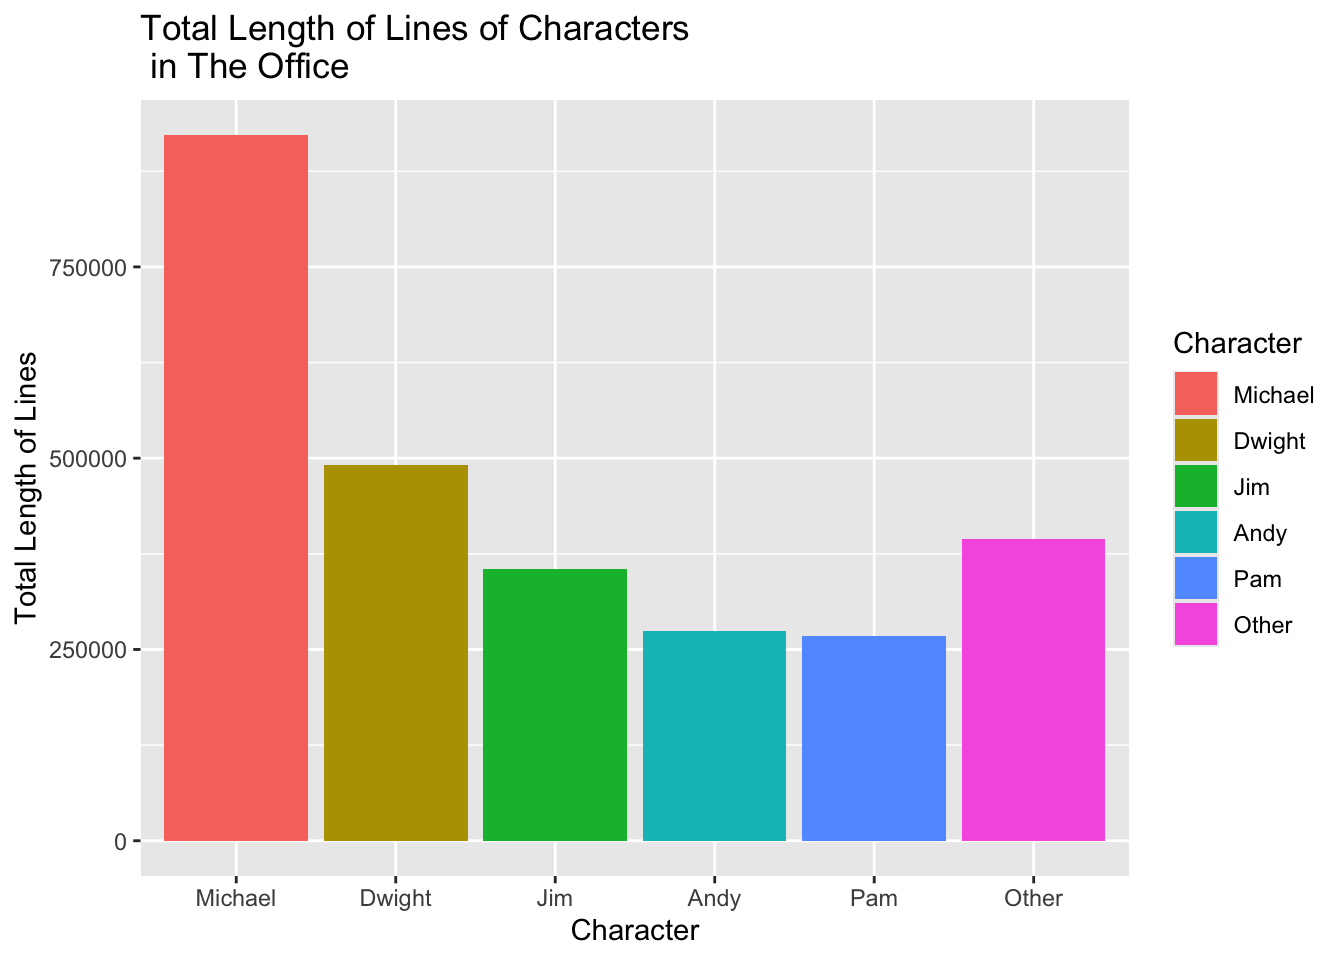
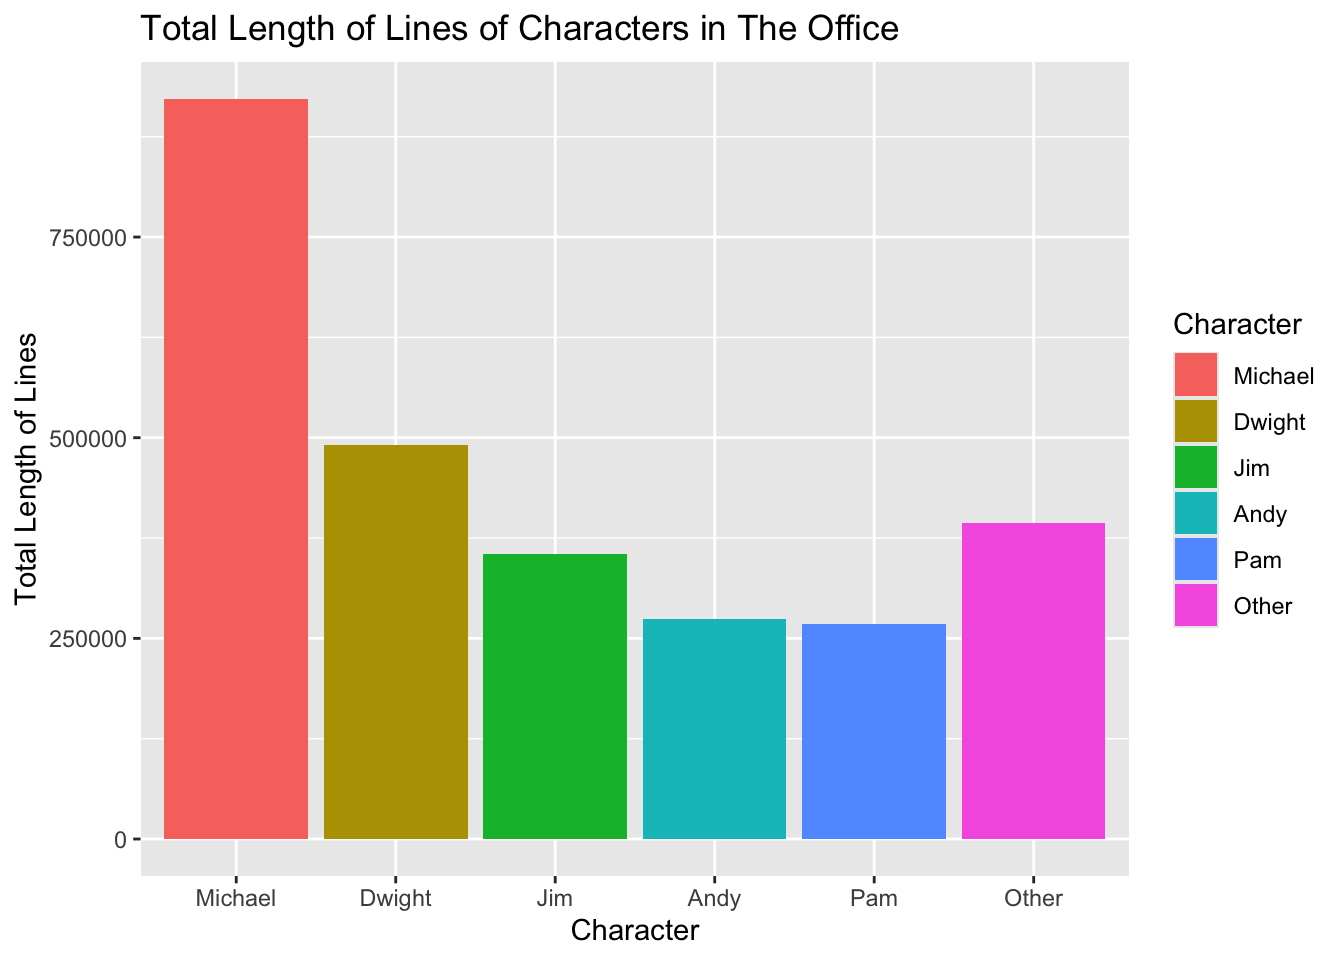
proj2

diff --git a/docs/office_lines.html b/docs/office_lines.html
@@ -7,7 +7,7 @@
 <meta name="viewport" content="width=device-width, initial-scale=1.0, user-scalable=yes">
 
 
-<title>Lines in the Office – Sabina Peterson Rajalingam’s Website</title>
+<title>The Office Quotes – Sabina Peterson Rajalingam’s Website</title>
 <style>
 /* Default styles provided by pandoc.
 ** See https://pandoc.org/MANUAL.html#variables-for-html for config info.
@@ -145,7 +145,7 @@ pre > code.sourceCode > span > a:first-child::before { text-decoration: underlin
   </li>  
         <li>
     <a class="dropdown-item" href="./office_lines.html">
- <span class="dropdown-text">Office Lines</span></a>
+ <span class="dropdown-text">The Office Quotes</span></a>
   </li>  
     </ul>
   </li>
@@ -168,7 +168,7 @@ pre > code.sourceCode > span > a:first-child::before { text-decoration: underlin
 
 <header id="title-block-header" class="quarto-title-block default">
 <div class="quarto-title">
-<h1 class="title">Lines in the Office</h1>
+<h1 class="title">The Office Quotes</h1>
 </div>
 
 
@@ -185,6 +185,8 @@ pre > code.sourceCode > span > a:first-child::before { text-decoration: underlin
 </header>
 
 
+<p>This data set has information on all of the lines spoken in the American sitcom show, The Office. The data set tracks all lines from all 9 seasons and includes the season, episode, line, character who spoke the line, and what number line it was in the entire show. In total there are 61,306 lines!</p>
+<p>This dataset has been created by <a href="https://www.kaggle.com/datasets/fabriziocominetti/the-office-lines">Kaggle</a> and was originally scraped from a website called <a href="www.officequotes.net">Office Quotes</a> that is currently down.</p>
 <div class="cell">
 <div class="code-copy-outer-scaffold"><div class="sourceCode cell-code" id="cb1"><pre class="sourceCode r code-with-copy"><code class="sourceCode r"><span id="cb1-1"><a href="#cb1-1" aria-hidden="true" tabindex="-1"></a><span class="fu">library</span>(tidyverse)</span>
 <span id="cb1-2"><a href="#cb1-2" aria-hidden="true" tabindex="-1"></a><span class="fu">library</span>(ggplot2)</span>
@@ -202,6 +204,7 @@ pre > code.sourceCode > span > a:first-child::before { text-decoration: underlin
 <span id="cb2-5"><a href="#cb2-5" aria-hidden="true" tabindex="-1"></a>  <span class="fu">arrange</span>(<span class="fu">desc</span>(total_length)) <span class="sc">|&gt;</span></span>
 <span id="cb2-6"><a href="#cb2-6" aria-hidden="true" tabindex="-1"></a>  <span class="fu">head</span>(<span class="dv">10</span>)</span></code></pre></div><button title="Copy to Clipboard" class="code-copy-button"><i class="bi"></i></button></div>
 </div>
+<hr>
 <ol start="2" type="1">
 <li>One of the most common phrases that is repeated in The Office is “That’s what she said.” The main character Michael often repeats this innapropriate joke and I wanted to count how many times this joke was repeated by each character. First I found it helpful to change each string to all lower case and then use a regular expression brackets to choose either a straight or curly apostrophe.</li>
 </ol>
@@ -228,6 +231,10 @@ pre > code.sourceCode > span > a:first-child::before { text-decoration: underlin
 # ℹ 770 more rows</code></pre>
 </div>
 </div>
+<hr>
+<ol start="3" type="1">
+<li>In The Office, the paper company the characters all work for is called “Dunder Mifflin” which sounds an awful lot like “Blunder Muffin” to me. What is we changed the company line to something more funny?</li>
+</ol>
 <div class="cell">
 <div class="code-copy-outer-scaffold"><div class="sourceCode cell-code" id="cb5"><pre class="sourceCode r code-with-copy"><code class="sourceCode r"><span id="cb5-1"><a href="#cb5-1" aria-hidden="true" tabindex="-1"></a>office_lines <span class="sc">|&gt;</span></span>
 <span id="cb5-2"><a href="#cb5-2" aria-hidden="true" tabindex="-1"></a>  <span class="fu">mutate</span>(<span class="at">new_company =</span> <span class="fu">str_replace_all</span>(Line, <span class="st">"Dunder Mifflin"</span>, <span class="st">"Blunder Muffin"</span>)) <span class="sc">|&gt;</span></span>
@@ -240,6 +247,10 @@ pre > code.sourceCode > span > a:first-child::before { text-decoration: underlin
 2                                                                                                                                                                                                  I’ve, uh, I’ve been at Blunder Muffin for 12 years, the last four as Regional Manager. If you want to come through here… See we have the entire floor. So this is my kingdom, as far as the eye can see. This is our receptionist, Pam. Pam! Pam-Pam! Pam Beesly. Pam has been with us for…  forever. Right, Pam?</code></pre>
 </div>
 </div>
+<hr>
+<ol start="4" type="1">
+<li>One of my favorite characters is Dwight Schrute. He is known as one of the most comedic characters in the show. Using lookarounds, I wrote code to see what the characters talk about when he is mentioned. Some examples are shown below.</li>
+</ol>
 <div class="cell">
 <div class="code-copy-outer-scaffold"><div class="sourceCode cell-code" id="cb7"><pre class="sourceCode r code-with-copy"><code class="sourceCode r"><span id="cb7-1"><a href="#cb7-1" aria-hidden="true" tabindex="-1"></a>office_lines <span class="sc">|&gt;</span></span>
 <span id="cb7-2"><a href="#cb7-2" aria-hidden="true" tabindex="-1"></a>  <span class="fu">mutate</span>(<span class="at">jim_string =</span> (<span class="fu">str_extract</span>(Line, <span class="st">"(?&lt;=Dwight )[^.?]+"</span>))) <span class="sc">|&gt;</span></span>
@@ -254,6 +265,10 @@ pre > code.sourceCode > span > a:first-child::before { text-decoration: underlin
 143                                                 tell him about the kung fu and the car and everything</code></pre>
 </div>
 </div>
+<hr>
+<ol start="5" type="1">
+<li>The great love story of the sitcom is the story of Jim and Pam. In this code I used str_detect to count how many times they are mentioned together in a line.</li>
+</ol>
 <div class="cell">
 <div class="code-copy-outer-scaffold"><div class="sourceCode cell-code" id="cb9"><pre class="sourceCode r code-with-copy"><code class="sourceCode r"><span id="cb9-1"><a href="#cb9-1" aria-hidden="true" tabindex="-1"></a>office_lines <span class="sc">|&gt;</span></span>
 <span id="cb9-2"><a href="#cb9-2" aria-hidden="true" tabindex="-1"></a>  <span class="fu">summarize</span>(<span class="at">jam_count =</span> <span class="fu">sum</span>(<span class="fu">str_detect</span>(Line, <span class="st">"Jim.+Pam"</span>), <span class="at">na.rm =</span> <span class="cn">TRUE</span>)) </span></code></pre></div><button title="Copy to Clipboard" class="code-copy-button"><i class="bi"></i></button></div>
@@ -262,6 +277,7 @@ pre > code.sourceCode > span > a:first-child::before { text-decoration: underlin
 1       147</code></pre>
 </div>
 </div>
+<hr>
 <div class="cell">
 <div class="code-copy-outer-scaffold"><div class="sourceCode cell-code" id="cb11"><pre class="sourceCode r code-with-copy"><code class="sourceCode r"><span id="cb11-1"><a href="#cb11-1" aria-hidden="true" tabindex="-1"></a>office_lines_changed <span class="ot">&lt;-</span> office_lines_changed <span class="sc">|&gt;</span></span>
 <span id="cb11-2"><a href="#cb11-2" aria-hidden="true" tabindex="-1"></a>  <span class="fu">mutate</span>(<span class="at">Character =</span> <span class="fu">fct_lump</span>(Character, <span class="at">n =</span> <span class="dv">5</span>, <span class="at">w =</span> total_length))</span>
@@ -273,7 +289,7 @@ pre > code.sourceCode > span > a:first-child::before { text-decoration: underlin
 <span id="cb11-8"><a href="#cb11-8" aria-hidden="true" tabindex="-1"></a>  <span class="fu">geom_col</span>() <span class="sc">+</span></span>
 <span id="cb11-9"><a href="#cb11-9" aria-hidden="true" tabindex="-1"></a>  <span class="fu">labs</span>(</span>
 <span id="cb11-10"><a href="#cb11-10" aria-hidden="true" tabindex="-1"></a>    <span class="at">y =</span> <span class="st">"Total Length of Lines"</span>,</span>
-<span id="cb11-11"><a href="#cb11-11" aria-hidden="true" tabindex="-1"></a>    <span class="at">title =</span> <span class="st">"Total Length of Lines of Characters </span><span class="sc">\n</span><span class="st"> in The Office"</span></span>
+<span id="cb11-11"><a href="#cb11-11" aria-hidden="true" tabindex="-1"></a>    <span class="at">title =</span> <span class="st">"Total Length of Lines of Characters in The Office"</span></span>
 <span id="cb11-12"><a href="#cb11-12" aria-hidden="true" tabindex="-1"></a>  )</span></code></pre></div><button title="Copy to Clipboard" class="code-copy-button"><i class="bi"></i></button></div>
 <div class="cell-output-display">
 <div>
@@ -283,6 +299,10 @@ pre > code.sourceCode > span > a:first-child::before { text-decoration: underlin
 </div>
 </div>
 </div>
+<ol start="6" type="1">
+<li>PLOT 1: Length of Lines of Characters in The Office If you wanted to see how big of a role each character has in The Office throughout all 9 seasons, one way to track this could be to calculate the length of their lines. This plot above calculates the total length of all of each characters lines in terms of the physical length of each word in their lines. From this plot we can see that Michael, the main character, speaks the most. I was surprised to see that Andy spoke more than Pam because I always thought Pam was one of the more prevelant characters in the show. The pink other column represents all of the other characters in the show who had smaller roles. Some of those characters include Kevin, Angela, Phyllis, and more.</li>
+</ol>
+<hr>
 <div class="cell">
 <div class="code-copy-outer-scaffold"><div class="sourceCode cell-code" id="cb12"><pre class="sourceCode r code-with-copy"><code class="sourceCode r"><span id="cb12-1"><a href="#cb12-1" aria-hidden="true" tabindex="-1"></a>office_lines_dwight <span class="ot">&lt;-</span> office_lines <span class="sc">|&gt;</span></span>
 <span id="cb12-2"><a href="#cb12-2" aria-hidden="true" tabindex="-1"></a>  <span class="fu">group_by</span>(Season) <span class="sc">|&gt;</span></span>
@@ -292,7 +312,7 @@ pre > code.sourceCode > span > a:first-child::before { text-decoration: underlin
 <span id="cb12-6"><a href="#cb12-6" aria-hidden="true" tabindex="-1"></a>  <span class="fu">geom_col</span>()<span class="sc">+</span></span>
 <span id="cb12-7"><a href="#cb12-7" aria-hidden="true" tabindex="-1"></a>  <span class="fu">labs</span>(</span>
 <span id="cb12-8"><a href="#cb12-8" aria-hidden="true" tabindex="-1"></a>    <span class="at">y =</span> <span class="st">"'Dwight' Mentions"</span>,</span>
-<span id="cb12-9"><a href="#cb12-9" aria-hidden="true" tabindex="-1"></a>    <span class="at">title =</span> <span class="st">"How Often is 'Dwight' Mentioned in </span><span class="sc">\n</span><span class="st"> Each Season?"</span></span>
+<span id="cb12-9"><a href="#cb12-9" aria-hidden="true" tabindex="-1"></a>    <span class="at">title =</span> <span class="st">"How Often is 'Dwight' Mentioned in Each Season?"</span></span>
 <span id="cb12-10"><a href="#cb12-10" aria-hidden="true" tabindex="-1"></a>  )</span></code></pre></div><button title="Copy to Clipboard" class="code-copy-button"><i class="bi"></i></button></div>
 <div class="cell-output-display">
 <div>
@@ -302,6 +322,10 @@ pre > code.sourceCode > span > a:first-child::before { text-decoration: underlin
 </div>
 </div>
 </div>
+<ol start="7" type="1">
+<li>PLOT 2: How Often is Dwight Mentioned in Each Season?</li>
+</ol>
+<p>Using concept of tracking the times Dwight is mentioned in the Office, I plotted how many times Dwight is mentioned in each season. This gives us insight to how often the other characters talk about Dwight each season. With this data we can see that generally over time his popularity in the show increases. Although in season 2 and 3 Dwight is mentioned a lot more than in Season 4, 6, and 7. It would be interested to compare the data of all of the other characters and see which seasons highlight individual plots for each character. Maybe Dwight is mentioned less in Season 4 because Jim and Pam start dating then and are mentioned more by other characters.</p>
 
 
 

diff --git a/docs/simpson_episodes.html b/docs/simpson_episodes.html
@@ -143,6 +143,10 @@ pre > code.sourceCode > span > a:first-child::before { text-decoration: underlin
     <a class="dropdown-item" href="./simpson_episodes.html">
  <span class="dropdown-text">Simpsons Episodes</span></a>
   </li>  
+        <li>
+    <a class="dropdown-item" href="./office_lines.html">
+ <span class="dropdown-text">Office Lines</span></a>
+  </li>  
     </ul>
   </li>
 </ul>
@@ -165,7 +169,6 @@ pre > code.sourceCode > span > a:first-child::before { text-decoration: underlin
 <header id="title-block-header" class="quarto-title-block default">
 <div class="quarto-title">
 <h1 class="title">Simpson Episodes</h1>
-<p class="subtitle lead">This dataset is a Simpsons Dataset from Kaggle which was made available to the public by Prashant Banerjee. Thank you to Nicolas Foss, Ed.D., MS with Iowa HHS who curated the data set.</p>
 </div>
 
 
@@ -182,9 +185,8 @@ pre > code.sourceCode > span > a:first-child::before { text-decoration: underlin
 </header>
 
 
-<p>Link to Original Dataset: https://www.kaggle.com/datasets/prashant111/the-simpsons-dataset</p>
-<p>Link to Github: https://github.com/rfordatascience/tidytuesday/tree/main/data/2025/2025-02-04</p>
 <p>This data set analyzes the episodes from the TV show The Simpsons. Episodes and script lines have been filtered to only include episodes from 2010 to 2016. The data contains information about the imdb rating, voting, number in the series, season, title, views, and more.</p>
+<p>This dataset is a <a href="https://www.kaggle.com/datasets/prashant111/the-simpsons-dataset">Simpsons Dataset from Kaggle</a> which was made available to the public by Prashant Banerjee. Thank you to Nicolas Foss, Ed.D., MS with Iowa HHS who curated the data set in linked in <a href="https://github.com/rfordatascience/tidytuesday/tree/main/data/2025/2025-02-04">TidyTuesday</a></p>
 <div class="cell">
 <div class="code-copy-outer-scaffold"><div class="sourceCode cell-code" id="cb1"><pre class="sourceCode r code-with-copy"><code class="sourceCode r"><span id="cb1-1"><a href="#cb1-1" aria-hidden="true" tabindex="-1"></a><span class="fu">library</span>(tidyverse)</span>
 <span id="cb1-2"><a href="#cb1-2" aria-hidden="true" tabindex="-1"></a><span class="fu">library</span>(ggplot2)</span>

diff --git a/docs/breed_rank.html b/docs/breed_rank.html
@@ -143,6 +143,10 @@ pre > code.sourceCode > span > a:first-child::before { text-decoration: underlin
     <a class="dropdown-item" href="./simpson_episodes.html">
  <span class="dropdown-text">Simpsons Episodes</span></a>
   </li>  
+        <li>
+    <a class="dropdown-item" href="./office_lines.html">
+ <span class="dropdown-text">Office Lines</span></a>
+  </li>  
     </ul>
   </li>
 </ul>
@@ -165,7 +169,6 @@ pre > code.sourceCode > span > a:first-child::before { text-decoration: underlin
 <header id="title-block-header" class="quarto-title-block default">
 <div class="quarto-title">
 <h1 class="title">Breed Rankings</h1>
-<p class="subtitle lead">The data comes from the American Kennel Club and from KKakey.</p>
 </div>
 
 
@@ -182,9 +185,8 @@ pre > code.sourceCode > span > a:first-child::before { text-decoration: underlin
 </header>
 
 
-<p>Link to Original Data:</p>
-<p>Link to Github: https://github.com/rfordatascience/tidytuesday/tree/main/data/2022/2022-02-01</p>
 <p>The Breed Rank data gives information about different types of breek ranks. The specific dataset called breed_rank_all gives information about the ranking of each dog breed recorded from the years 2013 to 2020. There are 195 different types of breeds that this data set contains.</p>
+<p>This data set is a <a href="https://github.com/kkakey/dog_traits_AKC/blob/main/README.md">Breed Rankings Dataset from Kkakey</a> courtesy of <a href="https://www.akc.org/">American Kennel Club</a>. This data has been made available by KKakey through the <a href="https://github.com/rfordatascience/tidytuesday/tree/main/data/2022/2022-02-01">TidyTuesday Data Link</a></p>
 <div class="cell">
 <div class="code-copy-outer-scaffold"><div class="sourceCode cell-code" id="cb1"><pre class="sourceCode r code-with-copy"><code class="sourceCode r"><span id="cb1-1"><a href="#cb1-1" aria-hidden="true" tabindex="-1"></a><span class="fu">library</span>(tidyverse)</span>
 <span id="cb1-2"><a href="#cb1-2" aria-hidden="true" tabindex="-1"></a><span class="fu">library</span>(ggplot2)</span>
